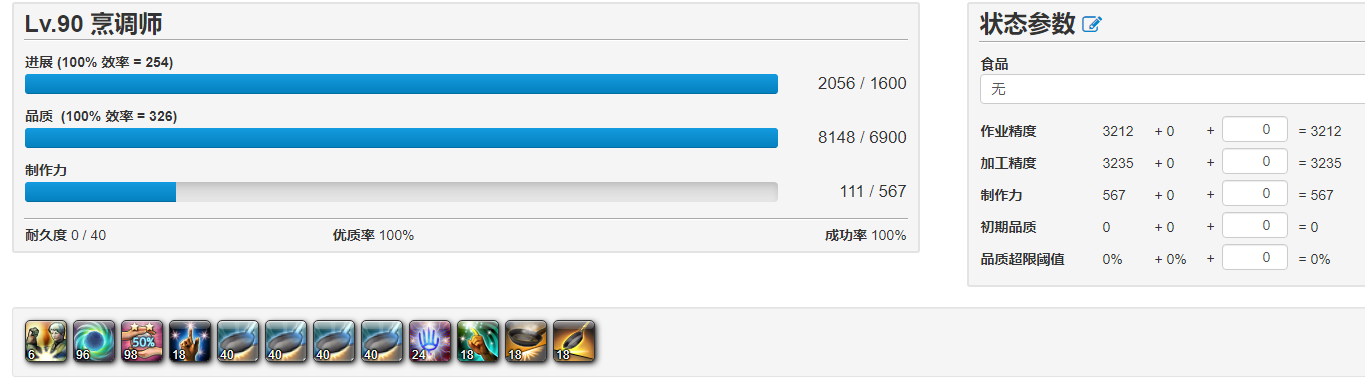
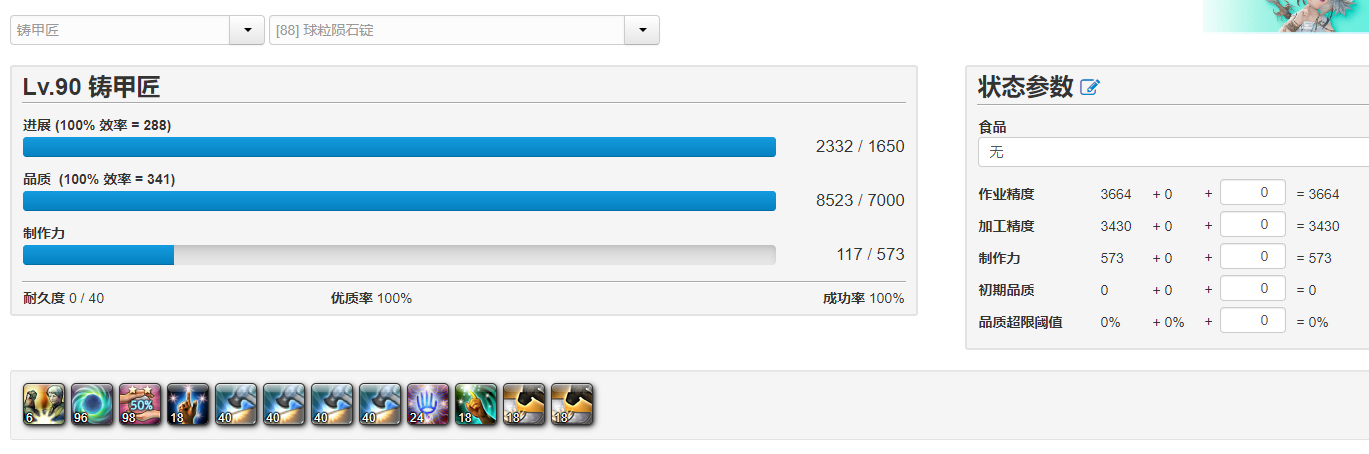
update

diff --git a/source/_posts/2022-05-07-FF14-tools.md b/source/_posts/2022-05-07-FF14-tools.md
@@ -25,17 +25,26 @@ typora-root-url: ..
 
 
 
-# 一、收藏品相关
+# 一、禁断及职业属性
+
+![禁断](/images/posts/ff14tools/禁断.png)
+
+- **无专家水晶**：3364/3430/573
+- **专家水晶**：3684/3450/588
+
+
+
+# 二、半成品
 
 ## 1、89级
 
-炼金 3232/3255/582（专家水晶）
+无专家水晶
 
-![](/images/posts/ff14tools/89白票.png)
+![](/images/posts/ff14tools/87半成品（无水晶）.png)
 
-烹调师 3212/3235/567（无专家水晶）
+有专家水晶
 
-![](/images/posts/ff14tools/89白票（无水晶）.png)
+![](/images/posts/ff14tools/87半成品.png)
 
 ```
 /macrolock
@@ -51,32 +60,34 @@ typora-root-url: ..
 /ac 崇敬 <wait.2>
 /ac 坯料制作 <wait.3>
 /ac 坯料制作 <wait.3>
-/ac 坯料制作 <wait.3>
 /echo 宏 #1 已完成！<se.1>
 ```
 
 ### 适用范围
 
-- 89级收藏品
-- 89级食物
-- 其它89级耐久度80的配方
+- 87、88级半成品
+- 品质7000，耐久40
 
 
 
-## 2、90级
+# 二、成品相关
 
-炼金 3232/3255/582（专家水晶）
+## 1、89级成品
 
-![](/images/posts/ff14tools/90白票.png)
+无专家水晶
 
-烹调师 3212/3235/567（无专家水晶）
+![](/images/posts/ff14tools/89白票（无水晶）.png)
 
-![](/images/posts/ff14tools/90紫票（无水晶）.png)
+专家水晶
+
+![](/images/posts/ff14tools/89白票.png)
 
 ```
-/ac 闲静 <wait.3>
+/macrolock
+/ac 坚信 <wait.3>
 /ac 掌握 <wait.2>
 /ac 长期俭约 <wait.2>
+/ac 坯料制作 <wait.3>
 /ac 改革 <wait.2>
 /ac 坯料加工 <wait.3>
 /ac 坯料加工 <wait.3>
@@ -84,69 +95,67 @@ typora-root-url: ..
 /ac 坯料加工 <wait.3>
 /ac 阔步 <wait.2>
 /ac 比尔格的祝福 <wait.3>
-/ac 崇敬 <wait.2>
-/ac 坯料制作 <wait.3>
-/ac 坯料制作 <wait.3>
 /ac 坯料制作 <wait.3>
 /echo 宏 #1 已完成！<se.1>
 ```
 
 ### 适用范围
 
-- 90级紫票收藏品
-- 其它90级耐久度80的配方
+- 89级成品
+- 难度3400，耐久7100
 
 
 
-# 二、半成品相关
+## 2、90级成品
 
-## 1、87级半成品
+无专家水晶
 
-炼金 3232/3255/582（专家水晶）
+![](/images/posts/ff14tools/90级成品（无水晶）.png)
 
-![](/images/posts/ff14tools/87半成品.png)
+专家水晶
 
-烹调师 3212/3235/567（无专家水晶）
-
-![](/images/posts/ff14tools/87半成品（无水晶）.png)
+![](/images/posts/ff14tools/90级成品.png)
 
 ```
 /macrolock
-/ac 闲静 <wait.3>
+/ac 坚信 <wait.3>
 /ac 掌握 <wait.2>
 /ac 长期俭约 <wait.2>
+/ac 坯料制作 <wait.3>
 /ac 改革 <wait.2>
 /ac 坯料加工 <wait.3>
 /ac 坯料加工 <wait.3>
 /ac 坯料加工 <wait.3>
 /ac 坯料加工 <wait.3>
+/ac 坯料加工 <wait.3>
+/ac 阔步 <wait.2>
 /ac 比尔格的祝福 <wait.3>
-/ac 崇敬 <wait.2>
 /ac 坯料制作 <wait.3>
-/ac 俭约制作 <wait.3>
 /echo 宏 #1 已完成！<se.1>
 ```
 
 ### 适用范围
 
-- 87半成品
-- 88半成品
+- 90级成品
+- 难度3500，耐久80
 
 
 
-## 2、90级半成品
+# 三、高难相关
 
-炼金 3232/3255/582（专家水晶）
+## 1、90级★★半成品
 
-食物：血色五海杂烩汤HQ
-
-![](/images/posts/ff14tools/90半成品.png)
-
-烹调师 3212/3235/567（无专家水晶）
+无专家水晶
 
 食物：高山茶HQ
 
-![](/images/posts/ff14tools/90半成品（无水晶）.png)
+![](/images/posts/ff14tools/90高难二星半成品（无水晶）.png)
+
+专家水晶
+
+食物：高山茶HQ
+
+![](/images/posts/ff14tools/90高难二星半成品.png)
 
 ```
 /macrolock
@@ -170,23 +179,33 @@ typora-root-url: ..
 /macrolock
 /ac 比尔格的祝福 <wait.3>
 /ac 坯料制作 <wait.3>
-/ac 俭约制作 <wait.3>
 /echo 宏 #2 已完成！<se.1>
 ```
 
 ### 适用范围
 
-- 90级高难配方半成品，CP35
+- 90级二星高难半成品
+- 品质7800、耐久35
 
 
 
-# 三、高难相关
+## 2、90级★★成品（580）
 
-## 1、垫品质5460
+无专家水晶
 
-锻铁匠3212/3235/567（无专家水晶）
+食物：高山茶HQ
 
-![](/images/posts/ff14tools/90高难-5460.png)
+初期品质：垫满（5460）
+
+![](/images/posts/ff14tools/580HQ（无水晶）.png)
+
+专家水晶
+
+食物：高山茶HQ
+
+初期品质：垫满（5460）
+
+![i](/images/posts/ff14tools/580HQ.png)
 
 ```
 /macrolock
@@ -201,8 +220,54 @@ typora-root-url: ..
 /ac 坯料加工 <wait.3>
 /ac 阔步 <wait.2>
 /ac 比尔格的祝福 <wait.3>
+/ac 坯料制作 <wait.3>
+/ac 坯料制作 <wait.3>
+/echo 宏 #1 已完成！<se.1>
+```
+
+
+
+## 3、90级★★成品（590）
+
+无专家水晶
+
+食物：高山茶HQ
+
+初期品质：垫满（6400）
+
+![](/images/posts/ff14tools/590HQ（无水晶）.png)
+
+专家水晶
+
+食物：高山茶HQ
+
+初期品质：垫满（6400）
+
+![](/images/posts/ff14tools/590HQ.png)
+
+```
+/macrolock
+/ac 坚信 <wait.3>
+/ac 掌握 <wait.2>
+/ac 长期俭约 <wait.2>
+/ac 崇敬 <wait.2>
+/ac 坯料制作 <wait.3>
+/ac 改革 <wait.2>
+/ac 坯料加工 <wait.3>
+/ac 坯料加工 <wait.3>
+/ac 坯料加工 <wait.3>
+/ac 坯料加工 <wait.3>
+/ac 加工 <wait.3>
+/ac 阔步 <wait.2>
+/ac 比尔格的祝福 <wait.3>
+/echo 宏 #1 已完成！<se.1>
+```
+
+```
+/macrolock
 /ac 崇敬 <wait.2>
 /ac 坯料制作 <wait.3>
 /ac 坯料制作 <wait.3>
+/echo 宏 #2 已完成！<se.1>
 ```
 
